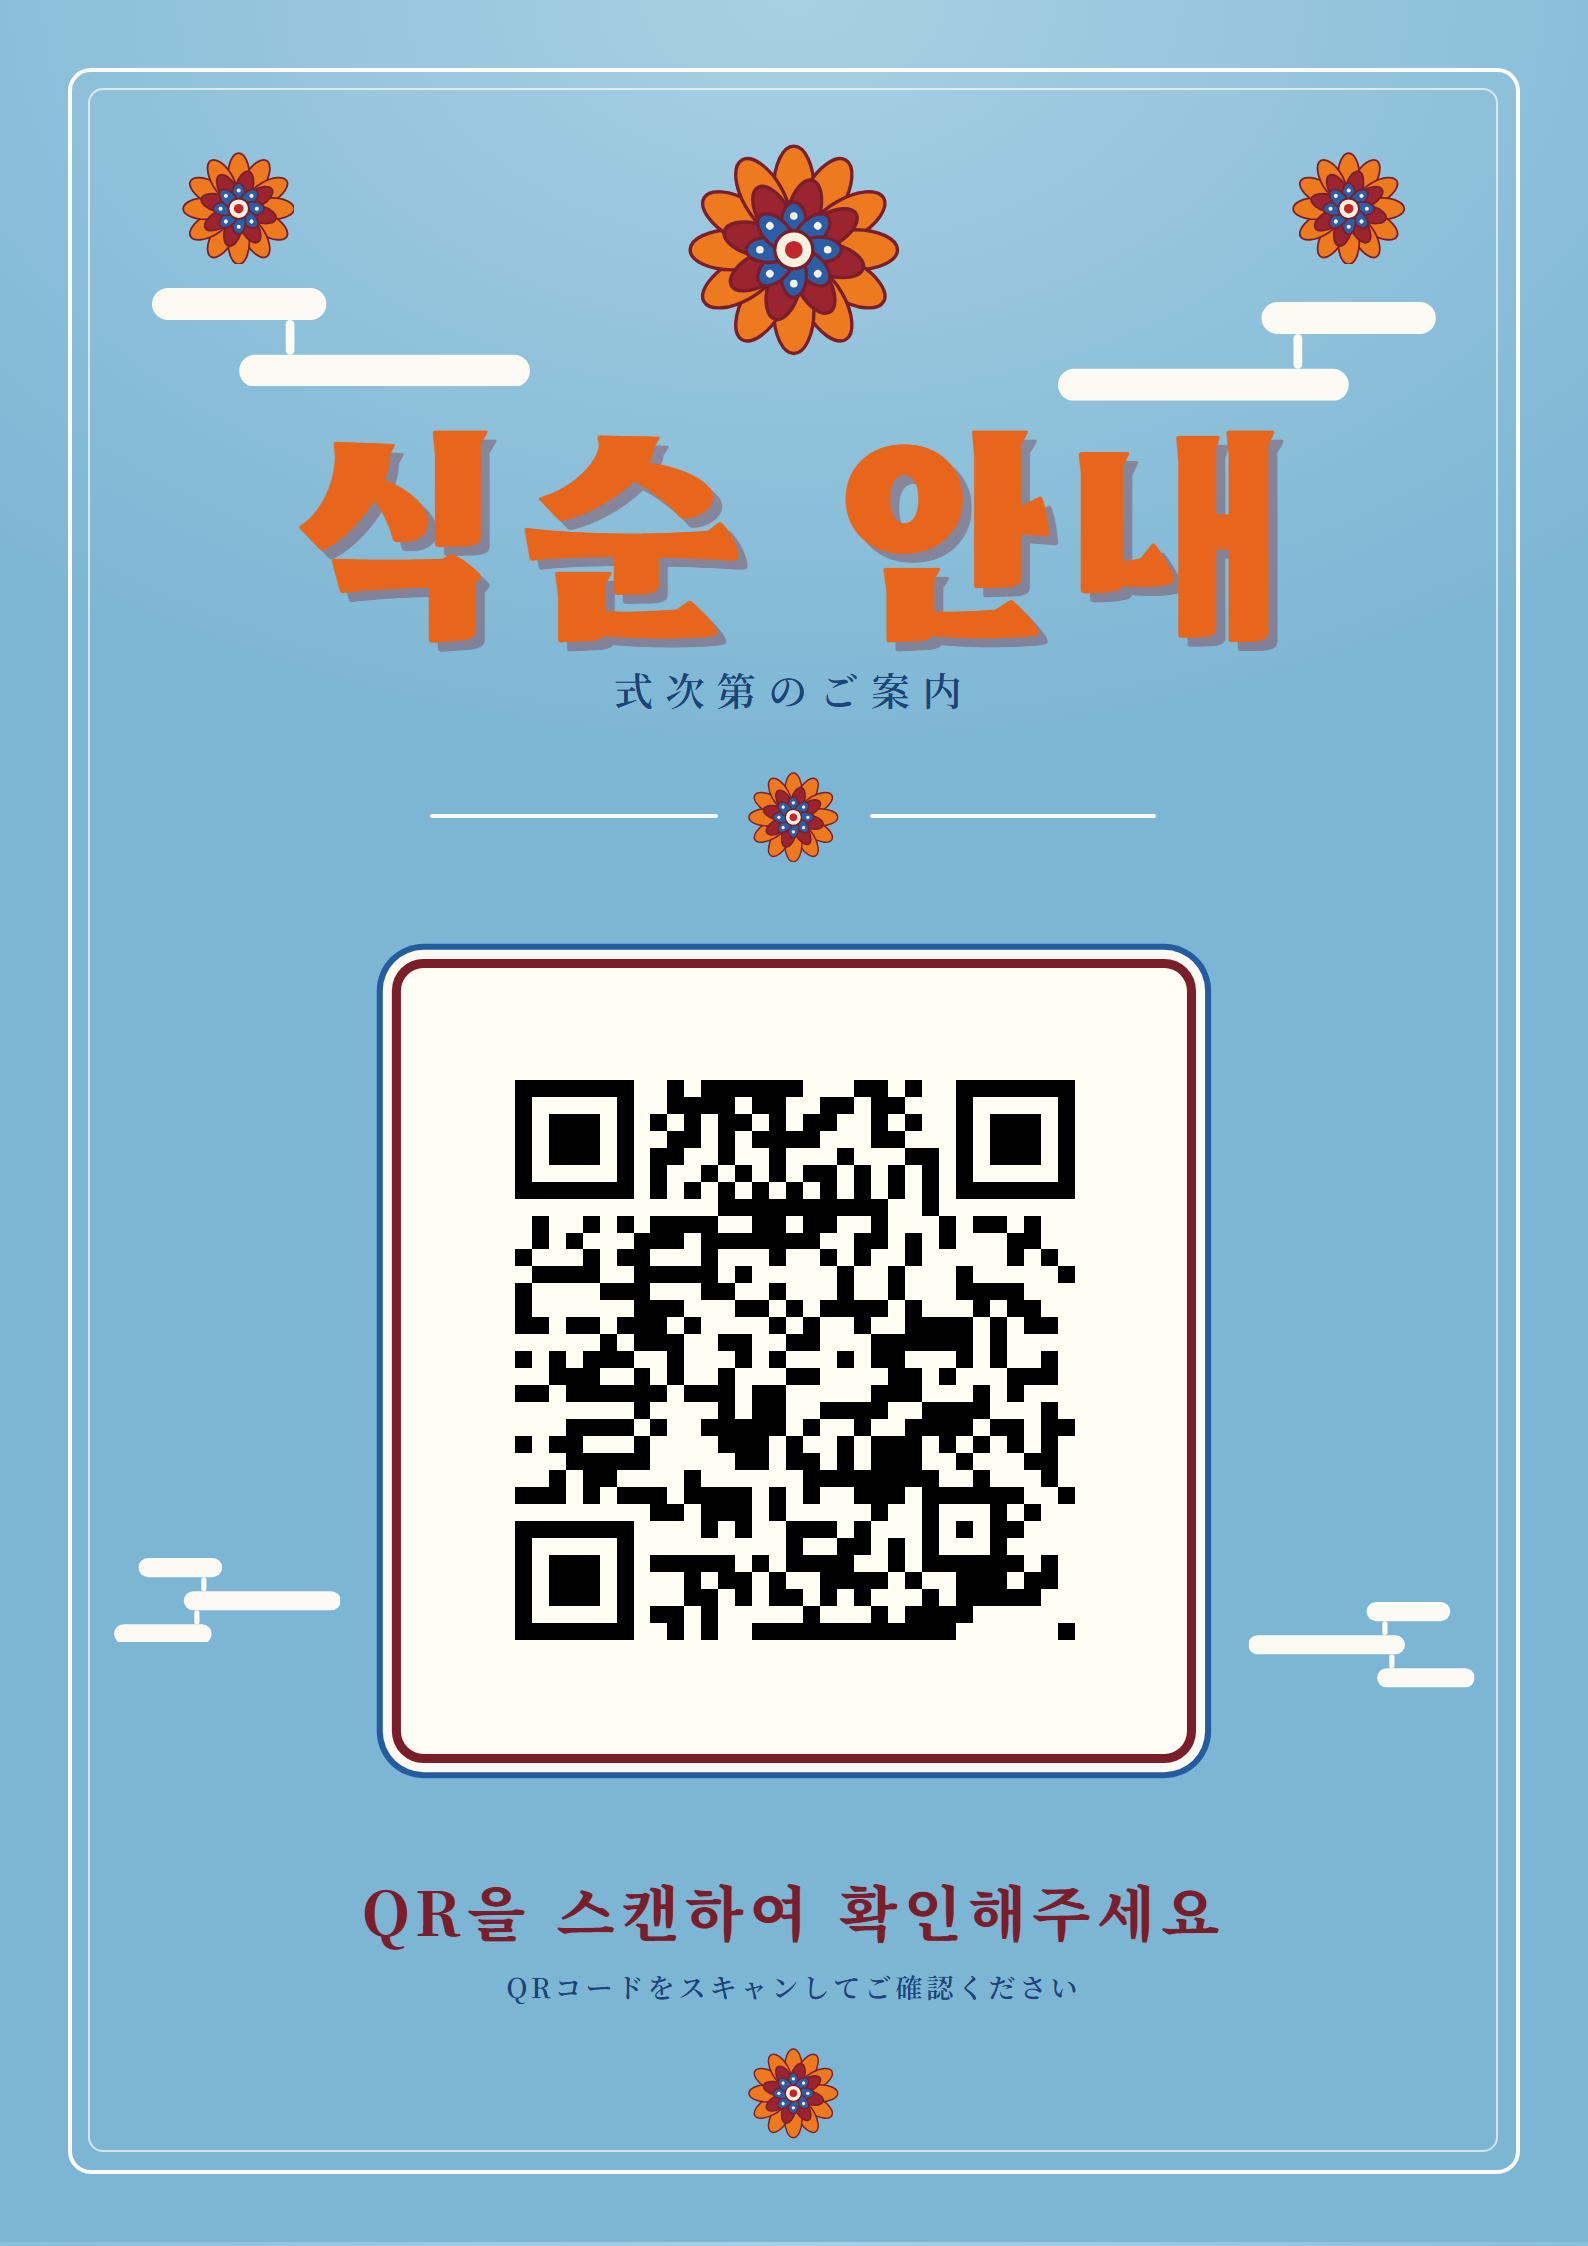
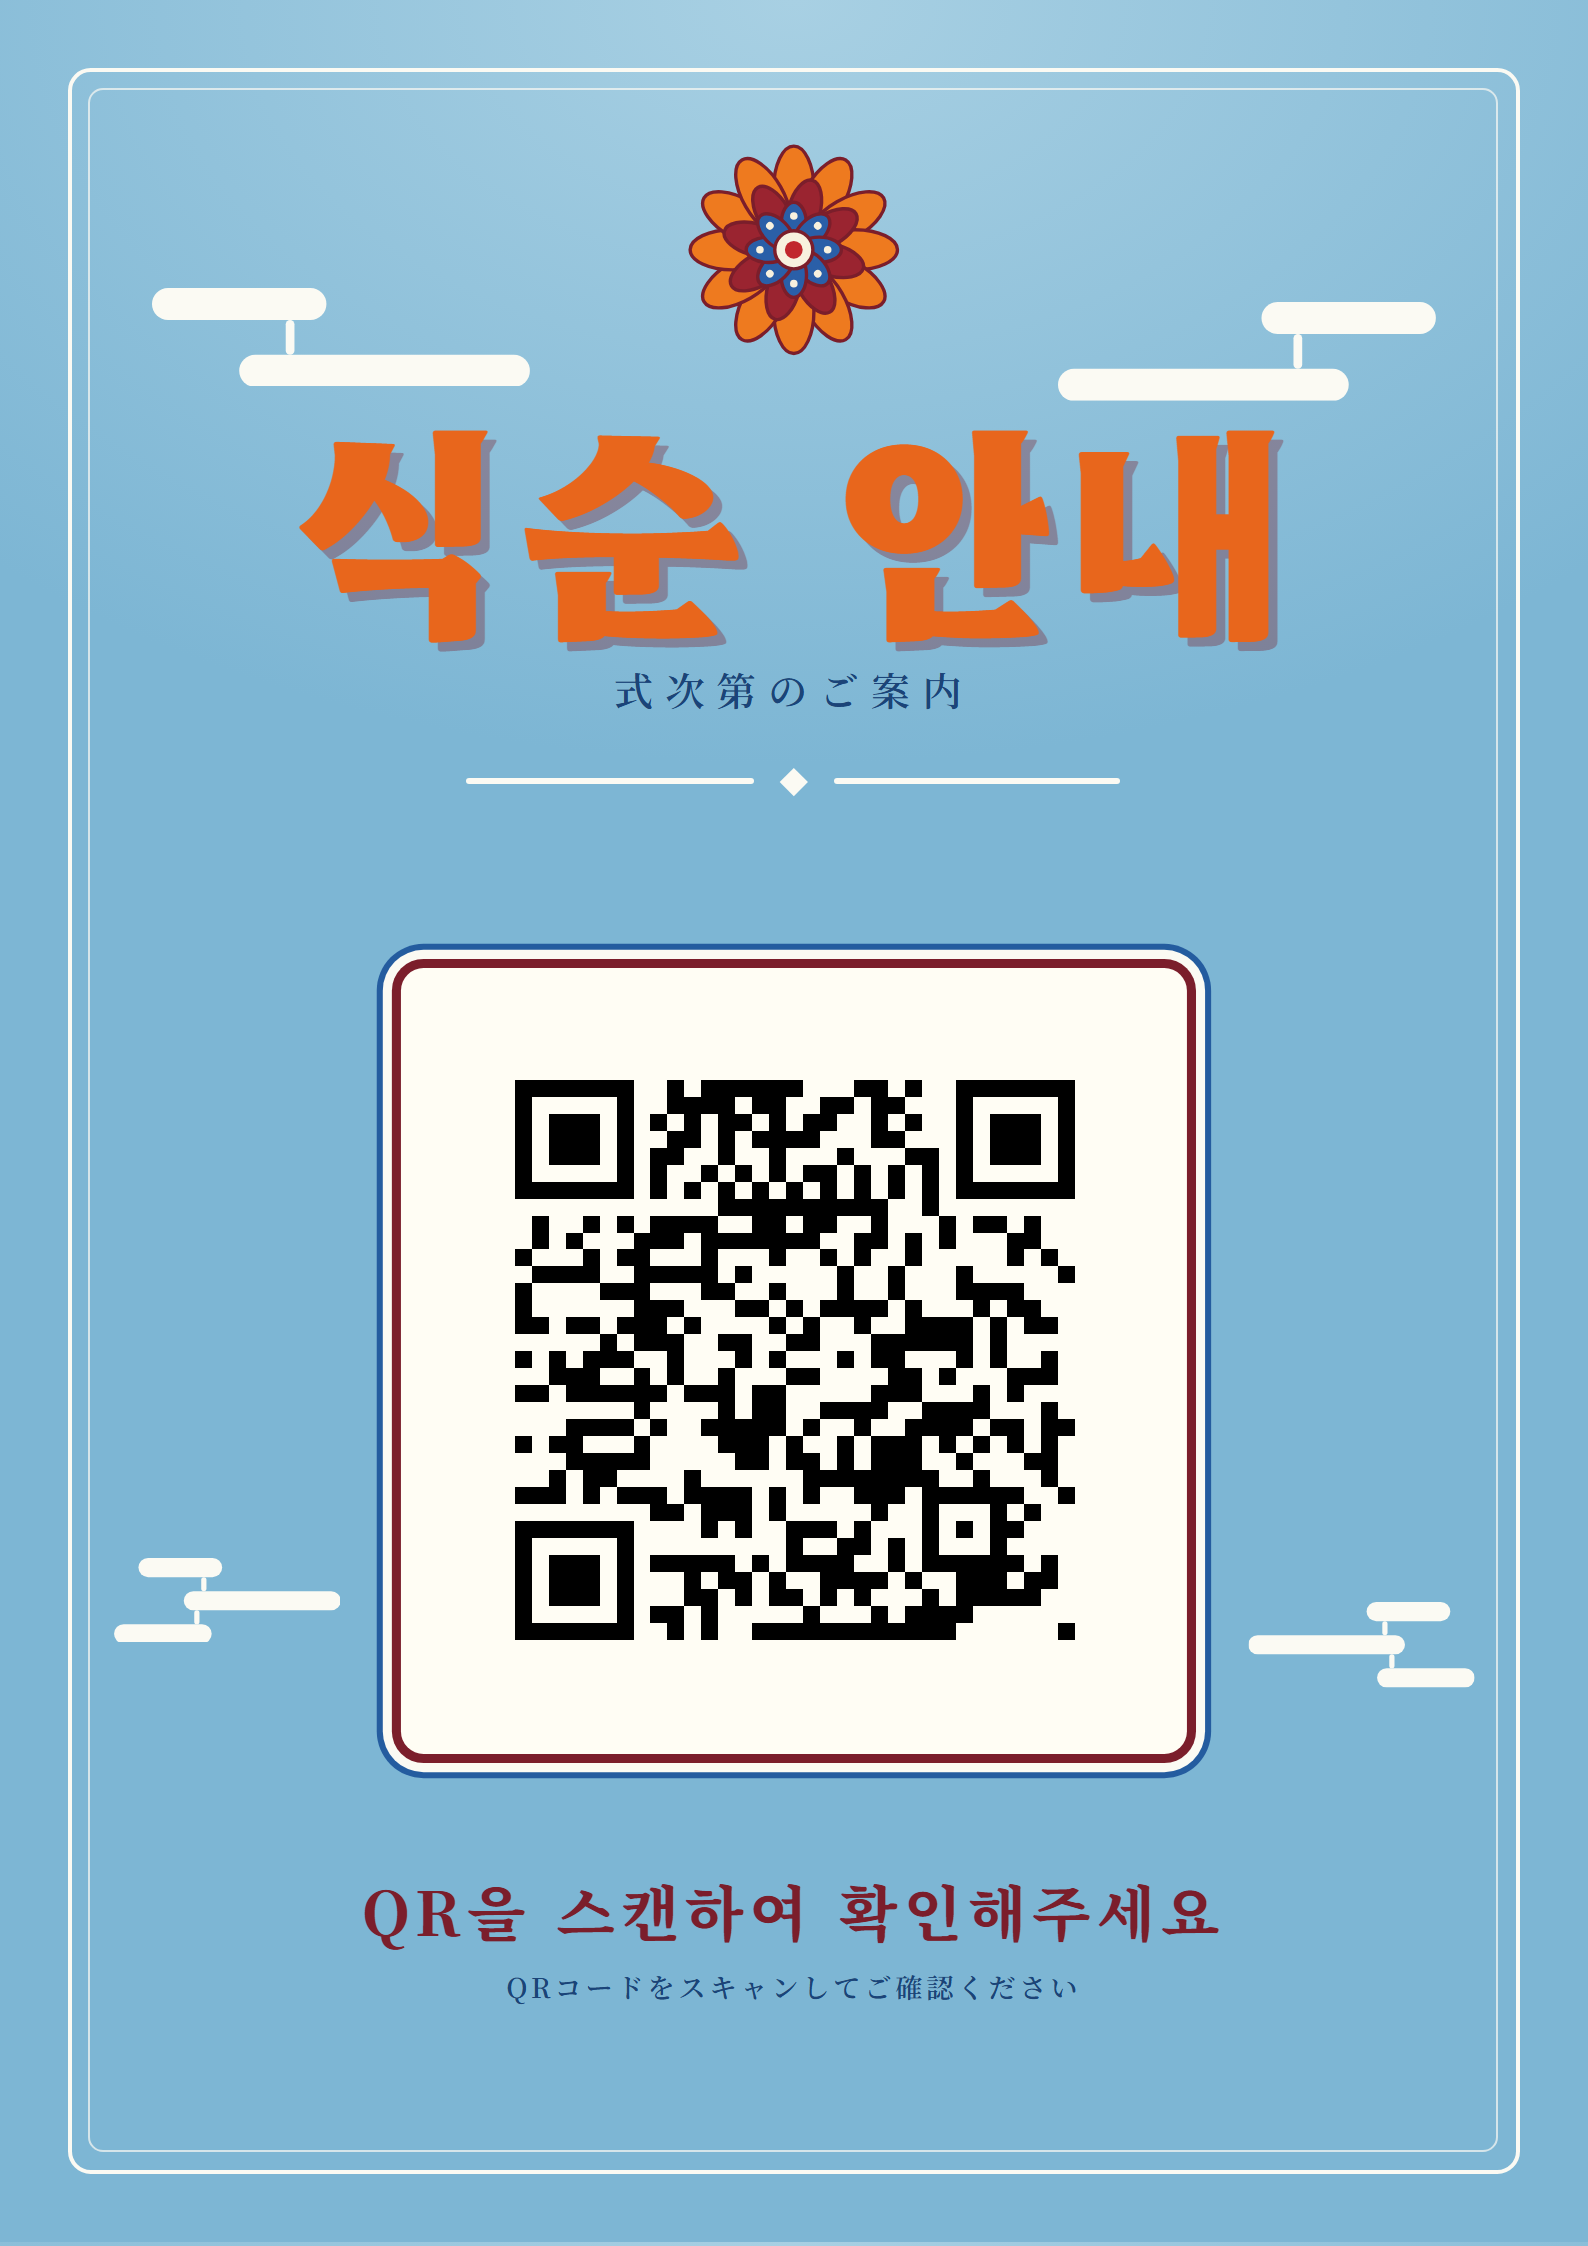
honrye: 안내판 꽃 장식 5개 → 1개로 축소

diff --git a/honrye/tools/make_poster.py b/honrye/tools/make_poster.py
@@ -32,7 +32,7 @@ body { position: relative; -webkit-print-color-adjust: exact; print-color-adjust
 .jt { margin: 4mm 0 0; font: 600 5.2mm/1 "Noto Serif JP", serif; letter-spacing: 1.6mm; color: #1b4478 }
 .rule { position: absolute; top: 102mm; left: 0; right: 0; display: flex; justify-content: center; align-items: center; gap: 4mm }
 .rule i { display: block; width: 38mm; height: .6mm; background: #fbfaf3; border-radius: 1mm }
-.rule svg { width: 12mm; height: 12mm }
+.rule b { display: block; width: 2.6mm; height: 2.6mm; background: #fbfaf3; transform: rotate(45deg) }
 .qrbox { position: absolute; top: 128mm; left: 50%; transform: translateX(-50%); width: 104mm; height: 104mm; padding: 6mm; background: #fffdf4; border-radius: 3mm;
   box-shadow: 0 0 0 1.2mm #7b1e2b, 0 0 0 2.4mm #fbfaf3, 0 0 0 3.2mm #245c9f }
 .qrbox > svg { width: 100%; height: 100% }
@@ -42,18 +42,15 @@ body { position: relative; -webkit-print-color-adjust: exact; print-color-adjust
 <body>__DEFS__
 <div class="frame"></div>
 <svg class="fl" style="top:19mm;left:50%;margin-left:-14mm;width:28mm;height:28mm"><use href="#flower"/></svg>
-<svg class="fl" style="top:20mm;left:24mm;width:15mm;height:15mm"><use href="#flower"/></svg>
-<svg class="fl" style="top:20mm;right:24mm;width:15mm;height:15mm"><use href="#flower"/></svg>
 <svg class="cloud" style="top:38mm;left:20mm;width:50mm" viewBox="0 0 130 34"><use href="#cloud-a"/></svg>
 <svg class="cloud" style="top:40mm;right:20mm;width:50mm" viewBox="0 0 130 34"><use href="#cloud-b"/></svg>
 <svg class="cloud" style="top:206mm;left:15mm;width:30mm" viewBox="0 0 130 49"><use href="#cloud-c"/></svg>
 <svg class="cloud" style="top:212mm;right:15mm;width:30mm;transform:scaleX(-1)" viewBox="0 0 130 49"><use href="#cloud-c"/></svg>
 <div class="title"><h1>식순 안내</h1><p class="jt">式次第のご案内</p></div>
-<div class="rule"><i></i><svg><use href="#flower"/></svg><i></i></div>
+<div class="rule"><i></i><b></b><i></i></div>
 <div class="qrbox">__QR__</div>
 <div class="cap">QR을 스캔하여 확인해주세요</div>
 <div class="jp">QRコードをスキャンしてご確認ください</div>
-<svg class="fl" style="top:271mm;left:50%;margin-left:-6mm;width:12mm;height:12mm"><use href="#flower"/></svg>
 </body></html>'''.replace('__DEFS__', defs).replace('__QR__', qr)
 
 out = os.path.join(ROOT, 'poster'); os.makedirs(out, exist_ok=True)
